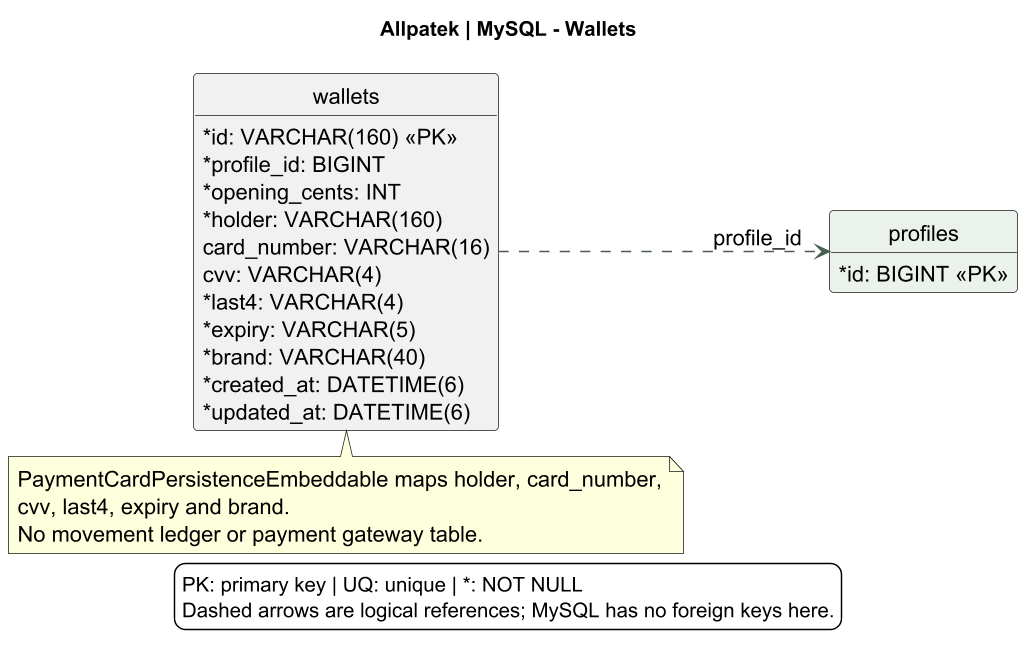
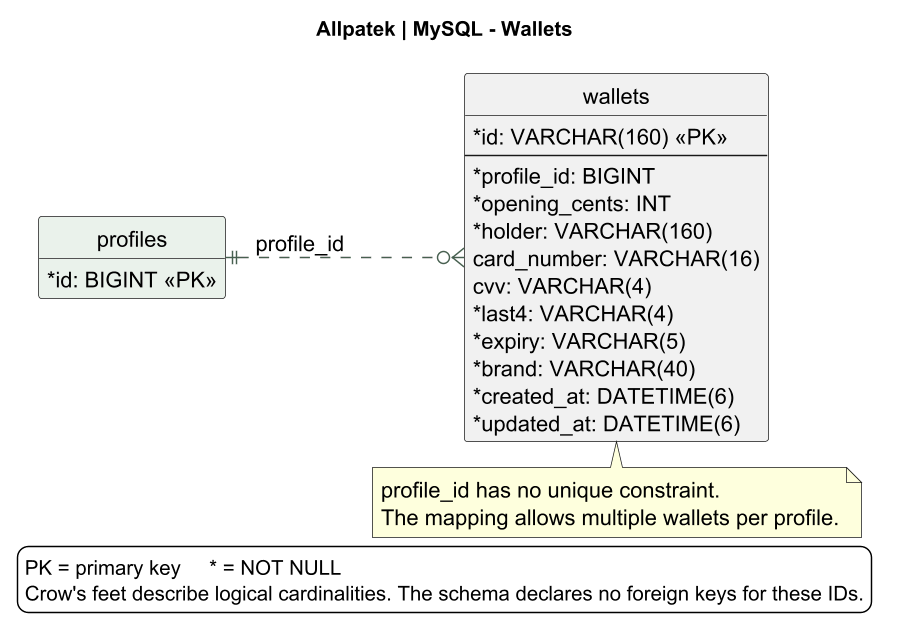
docs(database): specify wallets columns and constraints

Changed region(s): [[0.0, 0.0892, 0.9978, 0.9812], [0.343, 0.0297, 0.6548, 0.0595], [0.9666, 0.892, 0.9978, 0.9218]]

diff --git a/README.md b/README.md
@@ -2295,9 +2295,11 @@ Cada acuerdo guarda una referencia de parcela obligatoria y una referencia de co
 
 *Figura 4.8.1-B. Tabla agreements, parcela y comerciante.* [Ampliar en SVG](assets/chapter-04/architecture/15-database-contracts.svg) · [Fuente PlantUML](assets/chapter-04/architecture/15-database-contracts.puml).
 
-![Figura 4.8.1-C. Tabla wallets y referencia al perfil](assets/chapter-04/architecture/16-database-payments.png)
+El identificador del perfil es obligatorio y carece de restricción de unicidad. Por eso el esquema admite varias billeteras para el mismo perfil.
 
-*Figura 4.8.1-C. Tabla wallets y referencia al perfil.* <a href="assets/chapter-04/architecture/16-database-payments.puml" style="text-decoration: none;">Fuente PlantUML</a> · <a href="assets/chapter-04/architecture/16-database-payments.svg" style="text-decoration: none;">SVG</a>.
+![Figura 4.8.1-C. Tabla wallets y perfil](assets/chapter-04/architecture/16-database-payments.png)
+
+*Figura 4.8.1-C. Tabla wallets y perfil.* [Ampliar en SVG](assets/chapter-04/architecture/16-database-payments.svg) · [Fuente PlantUML](assets/chapter-04/architecture/16-database-payments.puml).
 
 ![Figura 4.8.1-D. Tabla evidence y referencia a parcela](assets/chapter-04/architecture/17-database-monitoring.png)
 
